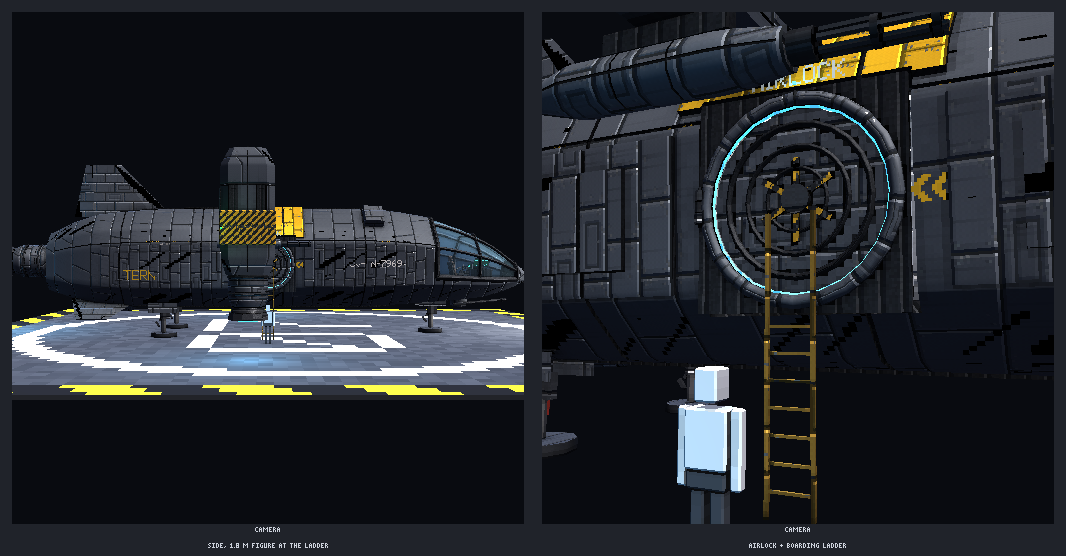
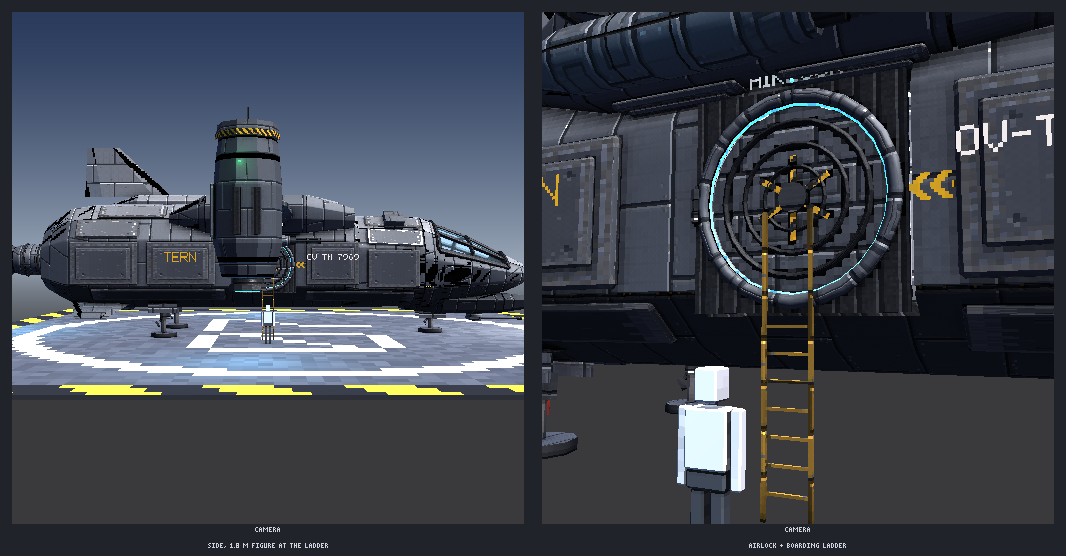
Hero exterior pass: faceted chined fuselage, spine/sponsons/chin masses, armour slabs, wing pylons, faceted nacelles, sky-lit previews
The gunship hull is now a linear loft of chined polygon sections (flat upper
deck stepping down to a wrap canopy and a blunt armoured nose) instead of a
rounded capsule. Big masses: dorsal spine, side sponsons carrying thick
armoured wing pylons over truss keels, a heavy chin block. Medium: faceted
VTOL nacelles with intake lip, hazard band and exhaust bell. Separate
bevelled armour slabs (new kit_slab texture: worn edges) with shadow gaps,
two-tone paint and a dark underbelly. Mood previews take sky (gradient
background); the hero exterior renders use a brighter key and fill.
walk_check still clean; before images kept as *_before.png.

diff --git a/src/gunship.js b/src/gunship.js
@@ -2,12 +2,14 @@
 // gunship at true scale (32 px = 1 m, 25 m long), exterior and walkable interior in ONE model.
 // Brand and names are original to this universe: maker "ORVANE", class "TERN", serial OV-TN-####.
 //
-// Exterior: tiered angular armour (stepped plates, recessed channels), two articulated nacelle
-// booms with hard pivots and VTOL thruster pods (blue glow rings, intake grilles, vent banks,
-// hazard-striped tips with nav lights), a big multi-pane glazed cockpit set into the armour, a
-// round side airlock with a boarding ladder, underslung guns, missile rails, a nose sensor cage,
-// chunky landing gear, livery decals (gunmetal + one yellow accent, stencils, serials, logotype,
-// chevrons).
+// Exterior, big masses first: a faceted chined fuselage wedge (linear loft of polygon sections:
+// flat upper deck stepping down to a wrap canopy and a blunt armoured nose), a raised dorsal spine,
+// side sponsons that carry thick armoured wing pylons (truss keels underneath), a heavy chin block;
+// then medium forms: faceted VTOL nacelles (intake lip, hazard band, exhaust bell, blue glow ring),
+// gun pods, missile rails, deep intakes, the round airlock + boarding ladder, chunky gear; then
+// separate bevelled armour slabs with shadow gaps (worn edges), vents and greebles only in the
+// recessed chine channel. Livery: two-tone (light deck, gunmetal sides, dark belly) + one yellow
+// accent block, stencils, serials, logotype, chevrons.
 // Interior (player metrics, walk_check clean): corridor with chamfered octagonal portal arches,
 // grating floor with blue edge strips, wall modules (weapon rack, personal storage, component bay),
 // terminals on arms, the airlock vestibule with a door panel, a cargo hold, and the cockpit with a
@@ -34,74 +36,120 @@ export function gunshipTemplate(o = {}) {
   const accent = o.accent ?? '#d0a020', hullC = o.color ?? '#454b54', glowC = o.glow ?? '#4cc8ff';
   const hx = (c) => c.slice(1).toLowerCase();
   const HULL = `kit_armor_${hx(hullC)}`, HULL2 = 'kit_hull_dark', ACC = `kit_accent_${hx(accent)}`, DARK = 'kit_metal_dark', MET = 'kit_metal';
+  // two-tone livery: light upper deck / spine / sponson tops, gunmetal sides, dark underbelly
+  const topC = o.color2 ?? '#6a7078', TOP = `kit_armor_${hx(topC)}`, BELLY = 'kit_armor_2c3036';
+  const SLAB_TOP = `kit_slab_${hx(topC)}`, SLAB_SIDE = `kit_slab_${hx(hullC)}`, SLAB_DARK = 'kit_slab_30343a', SLAB_ACC = `kit_slab_${hx(accent)}`;
   const L = 800, clear = 48, Y = (yl) => clear + yl; // local hull height -> world
   const floorL = 30, FY = Y(floorL), CH = 88; // corridor floor (world) and clear height (2.75 m)
   const zt = (t) => r2((t - 0.5) * L);
   const P = rig ? { parent: 'hull' } : {};
   const named = (n) => (rig ? { name: n } : {});
-  // ---------- primary form: the armoured body ----------
+  // ---------- primary mass: a faceted, chined fuselage wedge (linear loft of polygon sections) ----------
+  // Main section: flat upper deck, shoulder bevel, tumblehome upper side, hard chine, vertical side,
+  // lower bevel, flat belly. Nose section: narrower deck, deeper shoulder, keel-ish chin.
+  const mir = (h) => [...h, ...h.slice(1).reverse().map(([x, y]) => [-x, y])];
+  const MAIN = { points: mir([[0, 1], [0.6, 1], [0.84, 0.72], [1, 0.3], [1, -0.6], [0.78, -0.86], [0.55, -1]]), chamfer: 0.02 };
+  const NOSE = { points: mir([[0, 1], [0.42, 1], [0.8, 0.52], [1, 0.05], [0.9, -0.45], [0.55, -1]]), chamfer: 0.02 };
+  // facet u ranges of MAIN on the +x side (polygon corners): deck | shoulder | upper side | side | lower side | belly
+  const FU = { deck: [0, 0.0863], shoulder: [0.0863, 0.1393], upper: [0.1393, 0.2039], side: [0.2039, 0.3333], lower: [0.3333, 0.3822] };
   const body = {
-    type: 'hull', id: 'body', ...named('hull'), length: L, width: 224, height: 160, at: [0, clear, 0],
-    plan: [[0, 70], [0.1, 96], [0.3, 112], [0.64, 112], [0.78, 100], [0.9, 72], [1, 18]],
-    profile: [[0, 120, 26], [0.1, 150, 6], [0.3, 160, 0], [0.64, 160, 0], [0.78, 146, 6], [0.9, 112, 14], [0.97, 74, 30], [1, 56, 40]],
-    sections: [[0, { points: [[0, 1], [0.6, 1], [0.92, 0.62], [1, 0.25], [1, -0.62], [0.75, -1], [-0.75, -1], [-1, -0.62], [-1, 0.25], [-0.92, 0.62], [-0.6, 1]], chamfer: 0.03 }], [0.94, { points: [[0, 1], [0.5, 1], [1, 0.3], [0.9, -0.6], [0.5, -1], [-0.5, -1], [-0.9, -0.6], [-1, 0.3], [-0.5, 1]], chamfer: 0.04 }]],
-    rings: 20, segments: 18, crease: 28, shell: 6, inner: 'kit_metal_dark', rim: DARK,
-    panel_lines: { every: 128, seams: [0.06, 0.2], width: 2.2, depth: 1.8 },
+    type: 'hull', id: 'body', ...named('hull'), length: L, width: 224, height: 164, at: [0, clear, 0], interp: 'linear',
+    plan: [[0, 92], [0.06, 108], [0.12, 112], [0.6, 112], [0.7, 108], [0.8, 96], [0.9, 72], [0.97, 44], [1, 30]],
+    // flat upper deck, a hard step down at t 0.6, the second deck, then the canopy slope into a blunt armoured nose
+    profile: [[0, 132, 26], [0.05, 158, 6], [0.1, 164, 0], [0.6, 164, 0], [0.63, 146, 0], [0.76, 146, 0], [0.86, 118, 8], [0.95, 84, 24], [1, 66, 40]],
+    sections: [[0, MAIN], [0.7, MAIN], [0.88, NOSE]],
+    rings: 14, segments: 16, crease: 20, shell: 6, inner: 'kit_metal_dark', rim: DARK,
+    panel_lines: { rings: [0.1, 0.6, 0.76], seams: [FU.side[1]], width: 2.4, depth: 2 },
     plates: [
-      // tiered side armour: two stepped layers + a third small cap, recessed channels between
-      { t: [0.12, 0.38], u: [0.21, 0.33], lift: 2.5 }, { t: [0.15, 0.35], u: [0.23, 0.31], lift: 5 },
-      { t: [0.52, 0.76], u: [0.21, 0.33], lift: 2.5 }, { t: [0.55, 0.72], u: [0.23, 0.31], lift: 5 },
-      // dorsal spine plates
-      { t: [0.12, 0.7], u: [0.965, 0.035], lift: 2.5 }, { t: [0.16, 0.42], u: [0.975, 0.025], lift: 5 },
-      // the one accent colour: shoulder panels
-      { t: [0.38, 0.52], u: [0.08, 0.19], lift: 3, texture: ACC },
-      // belly armour
-      { t: [0.18, 0.7], u: [0.44, 0.56], lift: 2.5 },
+      // two-tone paint blocks: light upper deck + shoulders, gunmetal sides, dark underbelly
+      { t: [0.02, 0.99], u: [1 - FU.shoulder[1], FU.shoulder[1]], lift: 0.6, texture: TOP, mirror: false },
+      { t: [0.02, 0.99], u: [FU.side[1], 1 - FU.side[1]], lift: 0.6, texture: BELLY, mirror: false },
     ],
     texture: HULL, groove: DARK, plate_texture: HULL2, material: 'painted_metal',
     openings: [],
   };
   const S = hullSurface(body);
-  // openings: cockpit glazing (top + upper sides of the nose) and the round airlock on the -x side
-  const glz = { t: [0.785, 0.972], u: [0.69, 0.31] };
+  // armour slabs: separate bevelled boxes with real thickness on the flat facets, shadow gaps between
+  // them, an optional smaller second layer; fitted kit_slab texture = worn bare-metal edges
+  const slab = (hid, Sh, t0, t1, ua, ub, { h = 4, m = 3, tex = SLAB_SIDE, stack = 0, mirror = true, parent = P } = {}) => {
+    const tc = (t0 + t1) / 2, uc = (ua + ub) / 2, pa = Sh.point(tc, ua), pb = Sh.point(tc, ub);
+    const w = r2(Math.hypot(pa[0] - pb[0], pa[1] - pb[1], pa[2] - pb[2]) - 2 * m), d = r2(Math.abs(Sh.z(t1) - Sh.z(t0)) - 2 * m);
+    if (w < 6 || d < 6) return;
+    const q = { type: 'box', w, h, d, bevel: r2(Math.min(1.8, h * 0.42)), tile: false, texture: tex, material: 'painted_metal', ...parent };
+    parts.push({ ...q, on_hull: { hull: hid, t: tc, u: uc, lift: -0.6, mirror } });
+    if (stack) parts.push({ ...q, w: r2(w * 0.72), d: r2(d * 0.8), h: stack, bevel: r2(Math.min(1.4, stack * 0.42)), on_hull: { hull: hid, t: tc, u: uc, lift: h - 0.8, mirror } });
+  };
+  // openings: cockpit wrap canopy (deck + shoulders + upper sides of the nose) and the round airlock on -x
+  const glz = { t: [0.79, 0.945], u: [0.8, 0.2] };
   const zDoor = -40, tDoor = 0.5 + zDoor / L, R = 36, doorC = floorL + R + 2; // door centre (local y)
   const tD = [0.5 + (zDoor - R - 8) / L, 0.5 + (zDoor + R + 8) / L];
   const uD = [uAtY(S, tDoor, doorC + R + 8), uAtY(S, tDoor, doorC - R - 8)].sort((a, b) => a - b);
   body.openings = [{ ...glz, id: 'glazing' }, { t: tD, u: uD, id: 'airlock' }];
   const parts = [body];
   const Sx = (t, yl) => S.halfWidthAt(t, yl); // outer half width at local height
+  // body slabs (t ranges avoid the sponsons, the airlock band t 0.39..0.51 and the canopy)
+  for (const [a, b] of [[0.12, 0.24], [0.25, 0.37], [0.48, 0.6]]) slab('body', S, a, b, 0.052, FU.deck[1], { tex: SLAB_TOP, h: 3 });
+  for (const [a, b] of [[0.11, 0.25], [0.64, 0.76]]) slab('body', S, a, b, ...FU.shoulder, { tex: SLAB_TOP, h: 3.5 });
+  for (const [a, b] of [[0.07, 0.2], [0.64, 0.76]]) slab('body', S, a, b, ...FU.upper, { h: 4 });
+  for (const [a, b, st] of [[0.06, 0.2, 3], [0.21, 0.35, 3], [0.52, 0.63, 3], [0.64, 0.75, 0]]) slab('body', S, a, b, ...FU.side, { h: 5, stack: st });
+  slab('body', S, 0.38, 0.5, ...FU.side, { h: 5, stack: 3, tex: SLAB_ACC, mirror: false }); // the one accent block (+x side; the airlock is on -x)
+  for (const [a, b] of [[0.1, 0.37], [0.52, 0.74]]) slab('body', S, a, b, ...FU.lower, { h: 4, tex: SLAB_DARK });
+  // ---------- dorsal spine block (raised, faceted) ----------
+  const spine = { type: 'hull', id: 'spine', length: 384, width: 76, height: 24, at: [0, Y(162), zt(0.36)], interp: 'linear', plan: [[0, 20], [0.12, 38], [0.86, 38], [1, 22]], profile: [[0, 10, 0], [0.12, 24, 0], [0.86, 24, 0], [1, 12, 0]], section: { points: mir([[0, 1], [0.62, 1], [1, 0.1], [1, -1]]), chamfer: 0.04 }, rings: 6, segments: 8, crease: 20, texture: TOP, groove: DARK, material: 'painted_metal', ...P };
+  parts.push(spine);
+  const SP = hullSurface(spine);
+  for (const [a, b] of [[0.14, 0.4], [0.42, 0.62], [0.64, 0.84]]) slab('spine', SP, a, b, 0.92, 0.08, { tex: SLAB_TOP, h: 3, m: 4, mirror: false });
+  // ---------- side sponsons (the boom roots), heavy and wedge-ended ----------
+  const tB = 0.42, zB = zt(tB), yBl = 146, yB = Y(yBl), xS = Sx(tB, yBl);
+  const SPON = { points: mir([[0, 1], [0.55, 1], [1, 0.4], [1, -0.3], [0.6, -1]]), chamfer: 0.04 };
+  for (const s of [1, -1]) {
+    const sp = { type: 'hull', id: `spon_${s > 0 ? 'l' : 'r'}`, length: 288, width: 64, height: 58, at: [r2(s * (xS + 14)), Y(118), zB + 14], interp: 'linear', plan: [[0, 14], [0.2, 32], [0.74, 32], [1, 16]], profile: [[0, 30, 16], [0.2, 58, 0], [0.74, 58, 0], [1, 38, 8]], section: SPON, rings: 6, segments: 10, crease: 20, panel_lines: { rings: [0.2, 0.74], width: 2, depth: 1.6 }, texture: HULL, groove: DARK, material: 'painted_metal', ...P };
+    parts.push(sp);
+    const SS = hullSurface(sp);
+    for (const [a, b] of [[0.22, 0.46], [0.5, 0.72]]) slab(sp.id, SS, a, b, 0.92, 0.08, { tex: SLAB_TOP, h: 3.5, stack: 2.5, mirror: false });
+  }
+  // ---------- heavy chin block under the nose (chin turret housing, nose gear bay) ----------
+  const chin = { type: 'hull', id: 'chin', length: 230, width: 124, height: 36, at: [0, clear - 14, zt(0.88)], interp: 'linear', plan: [[0, 36], [0.25, 60], [0.7, 52], [1, 28]], profile: [[0, 20, 6], [0.25, 36, 0], [0.7, 34, 0], [1, 28, 10]], section: { points: mir([[0, 1], [0.7, 1], [1, 0.4], [0.85, -0.6], [0.5, -1]]), chamfer: 0.04 }, rings: 6, segments: 10, crease: 20, panel_lines: { rings: [0.25, 0.7], width: 2, depth: 1.6 }, texture: BELLY, groove: DARK, material: 'painted_metal', ...P };
+  parts.push(chin);
+  const CS = hullSurface(chin);
+  slab('chin', CS, 0.28, 0.68, 0.17, 0.27, { h: 3.5, tex: SLAB_DARK });
   // ---------- glazing + nose sensor cage ----------
-  parts.push({ type: 'glazing', hull: 'body', t: glz.t, u: glz.u, cols: 6, rows: 2, mullion: 5, frame: 9, inset: 3, opacity: 0.2, textures: { glass: '#8ec4dc', frame: DARK }, ...P });
+  parts.push({ type: 'glazing', hull: 'body', t: glz.t, u: glz.u, cols: 5, rows: 2, mullion: 7, frame: 12, inset: 4, opacity: 0.2, textures: { glass: '#8ec4dc', frame: DARK }, ...P });
   const nz = zt(1);
-  parts.push({ type: 'truss', from: [0, Y(48), nz - 6], to: [0, Y(48), nz + 54], w: 26, h: 22, bay: 18, style: 'x', chord: 1.6, brace: 0.9, texture: DARK, ...P });
-  parts.push({ type: 'sensor_dome', at: [0, Y(42), nz + 30], r: 7, ...P });
-  for (const s of [1, -1]) parts.push({ type: 'antenna', at: [s * 11, Y(59), nz + 40], h: 26, style: 'whip', texture: DARK, ...P });
-  parts.push({ type: 'light', at: [0, Y(36), nz + 56], color: '#fff2d8', kind: 'spot', dir: [0, -0.2, 1], intensity: 1.2, range: 420, bulb: 1.5, ...P });
+  parts.push({ type: 'truss', from: [0, Y(50), nz - 6], to: [0, Y(50), nz + 50], w: 26, h: 22, bay: 18, style: 'x', chord: 1.6, brace: 0.9, texture: DARK, ...P });
+  parts.push({ type: 'sensor_dome', at: [0, Y(44), nz + 28], r: 7, ...P });
+  for (const s of [1, -1]) parts.push({ type: 'antenna', at: [s * 11, Y(61), nz + 38], h: 26, style: 'whip', texture: DARK, ...P });
+  parts.push({ type: 'light', at: [0, Y(38), nz + 52], color: '#fff2d8', kind: 'spot', dir: [0, -0.2, 1], intensity: 1.2, range: 420, bulb: 1.5, ...P });
   // ---------- airlock (round door, outside) + boarding ladder ----------
   const xDoor = -Sx(tDoor, doorC);
   parts.push({ type: 'ring_door', ...(rig ? { name: 'airlock' } : { open: o.airlock === 'open' ? 1 : 0 }), r: R, at: [r2(xDoor - 1), Y(doorC), zDoor], rotate: [0, 0, 90], glow: glowC, ...P });
-  parts.push({ type: 'ladder', at: [r2(xDoor - 8), 0, zDoor], rotate: [0, 90, 0], h: FY, w: 18, ...P });
+  if (rig || o.gear !== 'up') parts.push({ type: 'ladder', at: [r2(xDoor - 8), 0, zDoor], rotate: [0, 90, 0], h: FY, w: 18, ...P });
   parts.push({ type: 'decal', text: 'AIRLOCK', font: '5x7', px: 1, color: '#e8e4d8', at: [r2(xDoor - 1.4), Y(doorC + R + 13), zDoor], rotate: [0, -90, 0], ...P });
   for (const s of [1, -1]) parts.push({ type: 'decal', kind: 'chevrons', count: 3, px: 1.2, color: accent, at: [r2(xDoor - 1.4), Y(doorC), zDoor + s * (R + 18)], rotate: [0, -90, s > 0 ? 0 : 180], ...P });
   parts.push({ type: 'marker', kind: 'spawn', at: [r2(xDoor - 60), 0, zDoor], dir: [1, 0, 0], data: { spawn: 'boarding' } });
-  // ---------- booms with VTOL thruster pods ----------
-  const tB = 0.42, zB = zt(tB), yB = Y(132), xS = Sx(tB, 132);
-  const boomLen = 230, podX = xS + boomLen + 18;
+  // ---------- armoured wing pylons from the sponsons, VTOL nacelles at the tips ----------
+  const boomLen = 200, root = xS + 40, podR = 41, podX = root + boomLen + 30;
+  const WING = { points: mir([[0, 1], [0.62, 1], [1, 0.25], [1, -0.25], [0.8, -1]]), chamfer: 0.03 };
   for (const s of [1, -1]) {
     const sfx = s > 0 ? 'l' : 'r', boomN = rig ? `boom_${sfx}` : undefined, podN = rig ? `pod_${sfx}` : undefined;
     const PB = rig ? { parent: boomN } : {}, PP = rig ? { parent: podN } : {};
-    // shoulder pivot: exposed knuckles + collar
-    parts.push({ type: 'cylinder', r: 20, h: 16, segments: 12, rotate: [0, 0, 90], at: [r2(s * (xS + (s > 0 ? 14 : -2))), yB, zB], texture: DARK, material: 'bare_metal', ...P });
-    parts.push({ type: 'hinge', len: 30, r: 9, count: 4, at: [r2(s * (xS + 8)), yB + 14, zB], ...P });
-    parts.push({ type: 'hull', ...(rig ? { name: boomN, parent: 'hull' } : {}), id: `boom_${sfx}`, length: boomLen, width: 40, height: 30, at: [r2(s * (xS + 12 + boomLen / 2)), yB - 15, zB], rotate: [0, s * 90, 0], plan: [[0, 20], [0.85, 16], [1, 12]], profile: [[0, 30, 0], [0.8, 26, 3], [1, 22, 6]], section: { points: [[0, 1], [0.6, 1], [1, 0.4], [1, -0.4], [0.6, -1], [-0.6, -1], [-1, -0.4], [-1, 0.4], [-0.6, 1]] }, rings: 8, segments: 12, panel_lines: { every: 48, seams: [0.25], width: 1.5, depth: 1.2 }, plates: [{ t: [0.15, 0.7], u: [0.92, 0.08], lift: 2 }], texture: HULL, groove: DARK, plate_texture: HULL2, material: 'painted_metal' });
-    // underslung gun pod near the root, missile rail outboard
-    parts.push({ type: 'gun_pod', at: [r2(s * (xS + 70)), yB - 16, zB + 6], len: 96, r: 9, barrels: 6, ...PB });
-    for (const k2 of [0, 1]) parts.push({ type: 'hardpoint', at: [r2(s * (xS + 140 + k2 * 40)), yB - 16, zB], len: 60, missile_r: 4, textures: { texture: MET, dark: DARK }, ...PB });
-    // the pod: housing, thruster with a blue glow ring, intake grille, vent banks, hazard tip + nav light
-    const pod = { type: 'hull', id: `pod_${sfx}`, ...(rig ? { name: podN, parent: boomN } : {}), length: 150, width: 64, height: 64, at: [r2(s * podX), yB - 32, zB], plan: [[0, 28], [0.15, 32], [0.85, 32], [1, 24]], profile: [[0, 58, 6], [0.15, 64, 0], [0.85, 64, 0], [1, 54, 10]], section: { points: [[0, 1], [0.7, 1], [1, 0.7], [1, -0.7], [0.7, -1], [-0.7, -1], [-1, -0.7], [-1, 0.7], [-0.7, 1]] }, rings: 8, segments: 12, panel_lines: { rings: [0.3, 0.7], seams: [0.25, 0.75], width: 1.5, depth: 1.2 }, plates: [{ t: [0.32, 0.68], u: [0.9, 0.1], lift: 2 }], texture: HULL, groove: DARK, plate_texture: HULL2, material: 'painted_metal', pivot: [0, 32, 0] };
+    // shoulder pivot: exposed knuckles + collar on the sponson flank
+    parts.push({ type: 'cylinder', r: 22, h: 14, segments: 10, rotate: [0, 0, 90], at: [r2(s * (root - (s > 0 ? 0 : 14))), yB, zB], texture: DARK, material: 'bare_metal', ...P });
+    parts.push({ type: 'hinge', len: 30, r: 9, count: 4, at: [r2(s * (root - 2)), yB + 18, zB - 24], ...P });
+    // the wing: thick tapered armoured pylon (faceted), top slabs, an exposed truss keel underneath
+    parts.push({ type: 'hull', ...(rig ? { name: boomN, parent: 'hull' } : {}), id: `boom_${sfx}`, length: boomLen + 16, width: 128, height: 30, at: [r2(s * (root - 8 + (boomLen + 16) / 2)), yB - 15, zB], rotate: [0, s * 90, 0], interp: 'linear', plan: [[0, 64], [0.85, 48], [1, 42]], profile: [[0, 30, 0], [0.85, 26, 2], [1, 24, 3]], section: WING, rings: 6, segments: 10, crease: 20, panel_lines: { rings: [0.5], width: 2, depth: 1.5 }, texture: HULL, groove: DARK, material: 'painted_metal' });
+    for (const [a, b] of [[0.06, 0.48], [0.52, 0.92]]) {
+      const x0 = root + a * boomLen, x1 = root + b * boomLen, f = Math.min(1, ((x0 + x1) / 2 - root + 8) / (boomLen + 16) / 0.85);
+      const hw = 64 - 16 * f, top = 30 - 4 * f;
+      parts.push({ type: 'box', w: r2(x1 - x0), h: 3.5, d: r2(2 * 0.62 * hw - 8), at: [r2((s * (x0 + x1)) / 2), r2(yB - 15 + top - 0.8), zB], bevel: 1.4, tile: false, texture: SLAB_TOP, material: 'painted_metal', ...PB });
+    }
+    parts.push({ type: 'truss', from: [r2(s * (root + 8)), yB - 26, zB - 6], to: [r2(s * (podX - podR - 4)), yB - 23, zB - 6], w: 30, h: 14, bay: 26, style: 'warren', chord: 1.8, brace: 1.1, texture: DARK, ...PB });
+    // underslung gun pod near the root, missile rails outboard
+    parts.push({ type: 'gun_pod', at: [r2(s * (root + 46)), yB - 24, zB + 16], len: 100, r: 10, barrels: 6, ...PB });
+    for (const k2 of [0, 1]) parts.push({ type: 'hardpoint', at: [r2(s * (root + 110 + k2 * 40)), yB - 15, zB + 10], len: 64, missile_r: 4, textures: { texture: MET, dark: DARK }, ...PB });
+    // the nacelle: a faceted revolve (intake lip at the front, swelling body, exhaust bell at the back)
     const vt = o.vtol === 'flight' ? 0 : -90;
-    if (!rig && vt) pod.rotate = [vt, 0, 0];
-    parts.push(pod);
+    if (rig) parts.push({ type: 'box', name: podN, parent: boomN, w: 20, h: 30, d: 40, at: [r2(s * podX), yB - 15, zB], pivot: [0, 15, 0], texture: DARK });
     const inPod = (q, local) => {
       // a part in the pod's frame (offset from the pod centre); static VTOL turns origin + part about x with the pod
       const c = [s * podX, yB, zB], a = (vt * Math.PI) / 180, ca = Math.cos(a), sa = Math.sin(a);
@@ -110,42 +158,47 @@ export function gunshipTemplate(o = {}) {
       if (rig || !vt) return { ...q, at, ...PP };
       return { ...q, at, rotate: [vt + (q.rotate?.[0] ?? 0), q.rotate?.[1] ?? 0, q.rotate?.[2] ?? 0] };
     };
-    parts.push(inPod({ type: 'engine', id: `vtol_${sfx}`, r: 24, len: 50, nozzle_len: 16, petals: 12, glow: glowC, textures: { housing: HULL2, nozzle: MET, dark: DARK } }, [0, 0, -88]));
-    parts.push(inPod({ type: 'intake', w: 40, h: 28, d: 30, depth: 24, textures: { texture: HULL2, side: DARK } }, [0, -14, 62]));
-    for (const yy of [16, -16]) parts.push(inPod({ type: 'box', w: 2, h: 10, d: 60, rotate: [0, 0, 0], texture: DARK, insets: [{ face: s > 0 ? 'right' : 'left', rect: [4, 2, 52, 6], depth: 0.6 }] }, [s * 33, yy - 5, 0]));
-    parts.push(inPod({ type: 'box', w: 6, h: 66, d: 40, texture: 'kit_hazard', bevel: 1 }, [s * 34, -33, -20]));
-    parts.push(inPod({ type: 'light', color: s > 0 ? '#ff3030' : '#30ff60', intensity: 0.7, range: 80, bulb: 2.2 }, [s * 38, 30, -20]));
-    parts.push(inPod({ type: 'decal', text: 'NO STEP', px: 0.8, color: '#e8e4d8', rotate: [-90, 0, 0] }, [0, 32.4, 30]));
-    // logotype on the boom side (original maker mark)
-    parts.push({ type: 'decal', kind: 'logo', text: 'ORVANE', px: 1.1, color: '#e8e4d8', at: [r2(s * (xS + 110)), yB - 4, r2(zB + 20.6)], ...PB });
-    parts.push({ type: 'decal', kind: 'stripes', len: 40, px: 1, color: accent, at: [r2(s * (xS + 110)), yB - 13, r2(zB + 20.6)], ...PB });
+    parts.push(inPod({ type: 'revolve', id: `pod_${sfx}`, profile: [[20, -80], [27, -92], [31, -91], [35, -74], [podR, -52], [podR, 14], [38, 50], [35, 70], [37.5, 78], [36, 88], [29, 89], [26, 80], [22, 62]], segments: 10, smooth: false, rotate: [90, 0, 0], texture: HULL, material: 'painted_metal' }, [0, 0, 0]));
+    parts.push(inPod({ type: 'engine', id: `vtol_${sfx}`, r: 22, len: 30, nozzle_len: 14, petals: 12, glow: glowC, textures: { housing: HULL2, nozzle: MET, dark: DARK } }, [0, 0, -78]));
+    // intake: dark fan face + cross grille + hazard-striped lip band
+    parts.push(inPod({ type: 'cylinder', r: 23, h: 3, segments: 10, rotate: [90, 0, 0], texture: 'kit_grate', material: 'bare_metal' }, [0, 0, 64]));
+    for (const rz of [0, 90]) parts.push(inPod({ type: 'box', w: 50, h: 2.4, d: 2.4, rotate: [0, 0, rz], texture: DARK }, [0, -1.2, 84]));
+    parts.push(inPod({ type: 'revolve', profile: [[38.4, -3.5], [38.4, 3.5]], segments: 10, smooth: false, rotate: [90, 0, 0], texture: 'kit_hazard' }, [0, 0, 74]));
+    // top armour slab band, vent banks on the flanks, nav light
+    parts.push(inPod({ type: 'box', w: 30, h: 3.5, d: 64, bevel: 1.4, tile: false, texture: SLAB_TOP, material: 'painted_metal' }, [0, podR - 1.2, -14]));
+    for (const yy of [12, -12]) parts.push(inPod({ type: 'box', w: 2, h: 9, d: 52, texture: DARK, insets: [{ face: s > 0 ? 'right' : 'left', rect: [4, 2, 44, 5], depth: 0.6 }] }, [s * (podR - 0.6), yy - 4.5, -16]));
+    parts.push(inPod({ type: 'light', color: s > 0 ? '#ff3030' : '#30ff60', intensity: 0.7, range: 80, bulb: 2.2 }, [s * (podR + 1), 8, 40]));
+    parts.push(inPod({ type: 'decal', text: 'NO STEP', px: 0.8, color: '#e8e4d8', rotate: [-90, 0, 0] }, [0, podR + 2.6, -14]));
+    // logotype + stripes on the wing's leading face
+    parts.push({ type: 'decal', kind: 'logo', text: 'ORVANE', px: 1.1, color: '#e8e4d8', at: [r2(s * (root + 100)), yB - 2, r2(zB + 64.6)], ...PB });
+    parts.push({ type: 'decal', kind: 'stripes', len: 40, px: 1, color: accent, at: [r2(s * (root + 100)), yB - 10, r2(zB + 64.6)], ...PB });
   }
-  // ---------- tail: main engines, fin, strakes, vents ----------
+  // ---------- tail: main engines, fin on the spine, strakes, vents ----------
   for (const s of [1, -1]) {
-    parts.push({ type: 'engine', id: `main_${s > 0 ? 'l' : 'r'}`, at: [s * 42, Y(74), zt(0) - 26], r: 26, len: 60, nozzle_len: 20, petals: 12, glow: glowC, textures: { housing: HULL2, nozzle: MET, dark: DARK }, ...P });
-    parts.push({ type: 'decal', kind: 'chevrons', count: 4, px: 1.2, color: accent, at: [s * 42, Y(108), zt(0) - 0.6], rotate: [0, 180, 0], ...P });
-    parts.push({ type: 'wing_panel', span: 60, root: 120, tip: 50, sweep: 50, thick: 5, dihedral: s > 0 ? -35 : 215, at: [s * 50, Y(16), zt(0.12)], texture: HULL2, ...P });
+    parts.push({ type: 'engine', id: `main_${s > 0 ? 'l' : 'r'}`, at: [s * 42, Y(76), zt(0) - 26], r: 26, len: 60, nozzle_len: 20, petals: 12, glow: glowC, textures: { housing: HULL2, nozzle: MET, dark: DARK }, ...P });
+    parts.push({ type: 'decal', kind: 'chevrons', count: 4, px: 1.2, color: accent, at: [s * 42, Y(110), zt(0) - 0.6], rotate: [0, 180, 0], ...P });
+    parts.push({ type: 'wing_panel', span: 60, root: 120, tip: 50, sweep: 50, thick: 6, dihedral: s > 0 ? -35 : 215, at: [s * 54, Y(18), zt(0.12)], texture: HULL2, ...P });
   }
-  parts.push({ type: 'wing_panel', span: 90, root: 170, tip: 60, sweep: 90, thick: 6, dihedral: 90, at: [0, Y(150), zt(0.14)], texture: HULL2, ...P });
-  parts.push({ type: 'decal', text: 'CAUTION JET BLAST', px: 0.7, color: '#1c1d20', bg: accent, at: [0, Y(100), zt(0) - 0.6], rotate: [0, 180, 0], ...P });
-  // vent banks on the spine (in the recessed channel) + intake grilles behind the canopy
-  for (const s of [1, -1]) for (let i = 0; i < 4; i++) parts.push({ type: 'vent', on_hull: { hull: 'body', t: 0.16 + i * 0.045, u: s > 0 ? 0.06 : 0.94, lift: 0.2 }, w: 18, d: 26, slats: 5, texture: DARK, ...P });
-  for (const s of [1, -1]) parts.push({ type: 'intake', on_hull: { hull: 'body', t: 0.66, u: s > 0 ? 0.12 : 0.88, lift: -0.5 }, w: 36, h: 14, d: 30, depth: 20, textures: { texture: HULL2, side: DARK }, ...P });
-  // fine greebles only inside the recessed seams
-  for (const u of [0.2, 0.8]) parts.push({ type: 'greeble', on_hull: { hull: 'body', t: 0.47, u, lift: -1.5 }, w: 3, d: 420, seed: 5, density: 0.5, size: [2, 6], height: [0.4, 1.2], kinds: ['bolts', 'conduit', 'panel'], texture: DARK, dark: '#18191c', accent: ACC, ...P });
+  parts.push({ type: 'wing_panel', span: 84, root: 150, tip: 56, sweep: 90, thick: 7, dihedral: 90, at: [0, Y(184), zt(0.15)], texture: TOP, ...P });
+  parts.push({ type: 'decal', text: 'CAUTION JET BLAST', px: 0.7, color: '#1c1d20', bg: accent, at: [0, Y(102), zt(0) - 0.6], rotate: [0, 180, 0], ...P });
+  // vent banks on the upper deck beside the spine + deep intakes on the second deck shoulders
+  for (const s of [1, -1]) for (let i = 0; i < 3; i++) parts.push({ type: 'vent', on_hull: { hull: 'body', t: 0.395 + i * 0.04, u: s > 0 ? 0.068 : 0.932, lift: 0.2 }, w: 18, d: 24, slats: 5, texture: DARK, ...P });
+  for (const s of [1, -1]) parts.push({ type: 'intake', on_hull: { hull: 'body', t: 0.7, u: s > 0 ? 0.115 : 0.885, lift: -0.5 }, w: 30, h: 14, d: 30, depth: 20, textures: { texture: HULL2, side: DARK }, ...P });
+  // fine greebles only inside the recessed chine channel
+  for (const u of [FU.side[1], 1 - FU.side[1]]) parts.push({ type: 'greeble', on_hull: { hull: 'body', t: 0.45, u, lift: -1.8 }, w: 3, d: 520, seed: 5, density: 0.5, size: [2, 6], height: [0.4, 1.2], kinds: ['bolts', 'conduit', 'panel'], texture: DARK, dark: '#18191c', accent: ACC, ...P });
   // ---------- underslung chin guns ----------
-  parts.push({ type: 'turret', ...(rig ? { name: 'chin_turret' } : {}), on_hull: { hull: 'body', t: 0.86, u: 0.5 }, r: 14, h: 6, barrels: 2, barrel_len: 70, textures: { texture: HULL2, dark: DARK, barrel: MET }, ...P });
-  // ---------- livery decals: serial, stencils, logotype ----------
+  parts.push({ type: 'turret', ...(rig ? { name: 'chin_turret' } : {}), on_hull: { hull: 'chin', t: 0.55, u: 0.5 }, r: 14, h: 6, barrels: 2, barrel_len: 70, textures: { texture: HULL2, dark: DARK, barrel: MET }, ...P });
+  // ---------- livery decals: serial, stencils, logotype (on the side slabs) ----------
   for (const s of [1, -1]) {
-    const tS = 0.66, xs = Sx(tS, 70) + 5.6;
-    parts.push({ type: 'decal', text: serial, font: '5x7', px: 1.4, color: '#e8e4d8', at: [r2(s * xs), Y(70), zt(tS)], rotate: [0, s * 90, 0], ...P });
-    parts.push({ type: 'decal', text: 'TERN', font: '7x9', px: 1.6, color: accent, at: [r2(s * xs), Y(52), zt(0.2)], rotate: [0, s * 90, 0], ...P });
-    parts.push({ type: 'decal', text: 'O2 SVC', px: 0.7, color: '#e8e4d8', at: [r2(s * (Sx(0.25, 100) + 0.3)), Y(100), zt(0.25)], rotate: [0, s * 90, 0], ...P });
+    const tS = 0.575, xs = Sx(tS, 80) + 5.6;
+    parts.push({ type: 'decal', text: serial, font: '5x7', px: 1.4, color: '#e8e4d8', at: [r2(s * (xs + 3)), Y(80), zt(tS)], rotate: [0, s * 90, 0], ...P });
+    parts.push({ type: 'decal', text: 'TERN', font: '7x9', px: 1.6, color: accent, at: [r2(s * (Sx(0.28, 80) + 8.6)), Y(80), zt(0.28)], rotate: [0, s * 90, 0], ...P });
+    parts.push({ type: 'decal', text: 'O2 SVC', px: 0.7, color: '#e8e4d8', at: [r2(s * (Sx(0.135, 70) + 5.6)), Y(70), zt(0.135)], rotate: [0, s * 90, 0], ...P });
   }
   // ---------- landing gear (chunky feet, visible pistons) ----------
-  const legs = [[0.8, 0, 'gear_n'], [0.24, 74, 'gear_l'], [0.24, -74, 'gear_r']];
-  for (const [t, x, nm] of legs) {
-    const yb = clear + S.extentAt(t).bottom + 6;
+  const legs = [[0.8, 0, 'gear_n', clear - 14 + CS.extentAt(CS.tOf(zt(0.8) - zt(0.88))).bottom], [0.24, 74, 'gear_l', clear + S.extentAt(0.24).bottom], [0.24, -74, 'gear_r', clear + S.extentAt(0.24).bottom]];
+  for (const [t, x, nm, bot] of legs) {
+    const yb = bot + 6;
     parts.push({ type: 'landing_gear', at: [x, r2(yb), zt(t)], h: r2(yb - 6 * 1.1), r: 6, foot: 'pad', door_w: 30, door_d: 46, textures: { texture: MET, piston: '#c8ccd0', door: HULL2, dark: DARK }, ...(rig ? { name: nm, parent: 'hull' } : { deployed: o.gear !== 'up' }) });
   }
   // ---------- interior (one model with the exterior; parts tagged inside:"body") ----------

diff --git a/src/docs.js b/src/docs.js
@@ -250,8 +250,8 @@ ${Object.entries(ASSEMBLY_DOCS).map(([k, v]) => `  ${k} {${v}}`).join('\n')}
 - hull shell:<px> = inner skin (wall thickness) + openings:[{t:[a,b], u:[a,b] (u0 > u1 wraps the top), id}] cut through both skins with rims that show the thickness; tag interior parts inside:"<hull id>" so walk_check tests the fit. glazing {hull, t, u, cols, rows, inset:3, mullion:5, frame:8} fills an opening with glass set into the armour + heavy mullions. ring_door {r:38, name?} = round airlock (concentric rings, lit ring, hub, exposed hinge; local +x = up, rotate:[0,0,90] mounts it on a -x wall). Interior kit: portal_arch (chamfered octagonal bulkhead portal), locker_wall {kind:weapon_rack|storage|component} (lit header, labels), screen_arm, pilot_seat (armrest pods, joysticks, screen arms, perforated kit_leather), terminal, stair_run {h} (risers <= 0.2 m), crate, barrel, stool, chair; gun_pod (rotary barrel cluster), fairing, hinge (exposed knuckles); figure (1.8 m scale silhouette for renders). Walk data rides on markers: walk {w, d, room, kind, headroom} areas (rooms, corridors, catwalks, ramps, stairs add theirs), ladder, lift, door, collider, trigger, seat, spawn.
 - art_model walk_check {name} -> ok, problems, blocked_doors, headroom (and seat head clearance), unreachable areas (from spawn markers / the ground, through doors, ladders, lifts and open edges), floor_gaps, hull_pokes (interior parts outside the inner skin), metrics (door / corridor sizes, slopes, stair rise, hull thickness); positions in metres. Doors, ramps, canopies and airlocks are opened for the test. export {walk:true} adds <name>_walk (navmesh, extras.navmesh, proxy), collider_<n> (box colliders per room), trigger_<n> (door / ladder / lift volumes), seat_<n> and spawn_<n> nodes; without walk those markers stay out.
 - template:"gunship" = the hero: an ORIGINAL 25 m VTOL gunship (maker ORVANE, class TERN) with a walkable interior (corridor with portal arches, grating, blue edge strips, weapon rack / storage / component bay, airlock vestibule, hold, cockpit with pilot seat behind the mullioned glazing); rigged nodes hull > boom_l/r > pod_l/r, airlock, chin_turret, gear_*; clips vtol, airlock_open, gear_retract/deploy; pose landed; static: rigged:false + vtol:"flight", gear:"up", airlock:"open". generate {kind:"interior", merge:true (default)} also writes the deck plan into the ship (inside:<hull>).
-- Kit textures without canvases: any texture "kit_<name>" or "kit_<name>_<rrggbb>" (tinted) resolves to the built-in painted pixel texture (height -> normal map, metal / rough) when no canvas has that name: hull, armor, hull_dark, accent, metal, metal_dark, deck (tread plate), grate (see-through), wall, panel_light, ceiling, hazard, rust, concrete, rock, pipe, fabric, crate, barrel, container, container_end, rubber, leather (perforated), glow, glass, screen, scratches + grime (overlays). Kit pieces and templates use them by default (textures:"flat" on templates = flat colours). decal {kind:text|logo|arrow|chevrons|stripes, text, px:0.5, color, bg, glow} = stencils, serials, labels, arrows, warning chevrons (alpha-cut quad facing +z; never occludes AO).
-- Previews: mood:true lights every surface per pixel (normal maps, specular highlights of the point lights, baked AO with ao:true, key + fill + rim light); mood {rim:false|{color, strength}, fill, key, max_lights:12, gain, ambient}. Preview only: exports are unchanged.
+- Kit textures without canvases: any texture "kit_<name>" or "kit_<name>_<rrggbb>" (tinted) resolves to the built-in painted pixel texture (height -> normal map, metal / rough) when no canvas has that name: hull, armor, hull_dark, accent, metal, metal_dark, deck (tread plate), grate (see-through), wall, panel_light, ceiling, slab (one bevelled armour slab per face, tile:false: worn edges), hazard, rust, concrete, rock, pipe, fabric, crate, barrel, container, container_end, rubber, leather (perforated), glow, glass, screen, scratches + grime (overlays). Kit pieces and templates use them by default (textures:"flat" on templates = flat colours). decal {kind:text|logo|arrow|chevrons|stripes, text, px:0.5, color, bg, glow} = stencils, serials, labels, arrows, warning chevrons (alpha-cut quad facing +z; never occludes AO).
+- Previews: mood:true lights every surface per pixel (normal maps, specular highlights of the point lights, baked AO with ao:true, key + fill + rim light); mood {rim:false|{color, strength}, fill, key, max_lights:12, gain, ambient, sky:true|{top, horizon, ground, horizon_y} (vertical sky / ground gradient behind the model)}. Preview only: exports are unchanged.
 - Budgets: art_model budget {name, class?} -> class (snub 6k, fighter 14k, dropship 45k, freighter 80k, corvette 120k, capital 200k (exterior + walkable interior), prop 1.5k, kit_piece 3k, room 8k, building 25k, district 150k), triangles, LOD estimate, draw calls, costliest parts, advice. export {budget:"fighter"} fails over budget; split:true (or a count) splits meshes over 20000 triangles (Roblox MeshPart limit) into <mesh>_part<k> child nodes; static:true|"<pose>" bakes a rigged ship's pose so lods / impostor / cull apply (sockets -> marker nodes).
 - Previews: preview {mood:true | {ambient, ambient_color, key:{dir, color, strength}, gain, bg}} = dark scene lit by the model's own light markers (engines, neon, lamps) as coloured point lights; additive cards add light.
 RIGS & CLIPS (rigid parts, PSX / Half-Life 1 style, no skinning; also maps to Roblox: one MeshPart per node + Motor6D):

diff --git a/src/modelkit.js b/src/modelkit.js
@@ -255,8 +255,15 @@ const hexRGB = (c) => { const m = /^#?([0-9a-f]{6})/i.exec(String(c)); if (!m) r
  * lamps) as coloured point lights. Every opaque surface is lit per pixel (normal maps, specular
  * highlights of the point lights, baked AO). mood: true | {ambient, ambient_color, key:{dir, color,
  * strength}, fill:false|{dir, color, strength}, rim:false|{dir?, color, strength}, lights:true|false, max_lights?:12 (per material
- * group, strongest first), gain, bg}.
+ * group, strongest first), gain, bg, sky:true|{top, horizon, ground, horizon_y?:0.5} (gradient
+ * background instead of the flat bg)}.
  */
+/** mood.sky: true (default dusk) | {top, horizon, ground, horizon_y?} hex colours -> RGB 0..255. */
+function skyOpts(sk) {
+  const d = { top: '#2a3b5c', horizon: '#9aa8b8', ground: '#3a3a3c', horizon_y: 0.5 }, o = sk === true ? d : { ...d, ...sk };
+  const rgb = (h) => hexRGB(h).map((v) => Math.round(v * 255));
+  return { top: rgb(o.top), horizon: rgb(o.horizon), ground: rgb(o.ground), horizon_y: Number(o.horizon_y) };
+}
 export function moodOpts(markers = [], mood = true) {
   const o = mood === true ? {} : mood;
   const amb = Number(o.ambient ?? 0.3);
@@ -268,5 +275,5 @@ export function moodOpts(markers = [], mood = true) {
   const bg = o.bg ? hexRGB(o.bg).map((v) => Math.round(v * 255)) : [9, 11, 16];
   const r = o.rim === false ? null : { ...(o.rim?.dir ? { dir: o.rim.dir.map(Number) } : {}), color: hexRGB(o.rim?.color ?? '#a8c4ff'), strength: Number(o.rim?.strength ?? 1.1) };
   const f = o.fill === false ? null : { dir: (o.fill?.dir ?? [-kd[0], 0.15, -kd[2]]).map(Number), color: hexRGB(o.fill?.color ?? '#5a78b0'), strength: Number(o.fill?.strength ?? 0.4) };
-  return { mood: true, bg, light: kd, ambient: amb, ambient_color: ac.map((v) => v * amb), color: key.color ? hexRGB(key.color) : [1, 0.94, 0.86], light_strength: Number(key.strength ?? 1.35), lights, ...(r ? { rim: r } : {}), ...(f ? { fill: f } : {}), max_lights: Number(o.max_lights ?? 12) };
+  return { mood: true, bg, light: kd, ambient: amb, ambient_color: ac.map((v) => v * amb), color: key.color ? hexRGB(key.color) : [1, 0.94, 0.86], light_strength: Number(key.strength ?? 1.35), lights, ...(r ? { rim: r } : {}), ...(f ? { fill: f } : {}), max_lights: Number(o.max_lights ?? 12), ...(o.sky ? { sky: skyOpts(o.sky) } : {}) };
 }

diff --git a/src/kittex.js b/src/kittex.js
@@ -52,6 +52,22 @@ const panel = (base, seed, { pw = 32, ph = 16, chips = 0.5, dirt = 0.5, hatch = 
 const PAINTERS = {
   hull: { w: 64, h: 64, base: 'hull', fn: (b, s) => panel(b, s, { pw: 32, ph: 16 }) },
   armor: { w: 64, h: 64, base: 'hull', fn: (b, s) => panel(b, s + 3, { pw: 64, ph: 32, chips: 0.25, dirt: 0.35, hatch: 0.12 }) },
+  // one armour slab fitted per face (tile:false): worn bare-metal edges along the border (chamfers
+  // read as edge wear), a lit inner lip, a calm painted field with faint scuffs, corner bolts
+  slab: {
+    w: 32, h: 32, base: 'hull',
+    fn: (b, s) => (x, y) => {
+      const N = (a, c, k) => hash3(a, c, s * 97 + k);
+      const e = Math.min(x, y, 31 - x, 31 - y);
+      const tone = 0.95 + N(x >> 3, y >> 3, 1) * 0.07 + dith(x, y) - (y / 31) * 0.06;
+      if (e === 0) return { c: shade(hex('#a2a6aa'), 0.85 + N(x, y, 2) * 0.25), h: 0.5, metal: 0.9, rough: 0.35 };
+      if (e === 1) return N(x, y, 3) < 0.45 ? { c: shade(hex('#8e9296'), 0.9 + N(x, y, 4) * 0.2), h: 0.6, metal: 0.85, rough: 0.4 } : { c: shade(hex(b), 1.16), h: 0.7 };
+      if (e === 2 && N(x >> 1, y >> 1, 5) < 0.18) return { c: shade(hex('#7c8084'), 1), h: 0.6, metal: 0.8, rough: 0.45 };
+      if ((x === 4 || x === 27) && (y === 4 || y === 27)) return { c: shade(hex(b), 0.55), h: 0.3 };
+      const scuff = N(x, y, 6) < 0.012 ? 1.25 : 1;
+      return { c: shade(hex(b), tone * scuff), h: 0.62, metal: 0.25, rough: 0.5 };
+    },
+  },
   hull_dark: { w: 64, h: 64, base: 'hull_dark', fn: (b, s) => panel(b, s + 1, { pw: 32, ph: 16, chips: 0.7, dirt: 0.7 }) },
   accent: { w: 32, h: 32, base: 'accent', fn: (b, s) => panel(b, s + 2, { pw: 32, ph: 16, hatch: 0, chips: 0.8 }) },
   metal: {

diff --git a/src/raster3d.js b/src/raster3d.js
@@ -67,6 +67,16 @@ export function rasterCore(groups, screen, IW, IH, opts = {}) {
   const L = opts.light || LIGHT, amb = opts.ambient ?? 0.45, lc = opts.color || null;
   const img = new Uint8ClampedArray(IW * IH * 4);
   if (bg) for (let i = 0; i < IW * IH; i++) img.set(bg, i * 4), (img[i * 4 + 3] = 255);
+  // mood sky: vertical gradient top -> horizon (at horizon_y of the height) -> ground (preview only)
+  const sky = bg && opts.sky;
+  if (sky) {
+    const hy = Math.max(0.05, Math.min(0.95, Number(sky.horizon_y ?? 0.55))) * IH;
+    for (let y = 0; y < IH; y++) {
+      const [a, b, f] = y < hy ? [sky.top, sky.horizon, (y / hy) ** 1.4] : [sky.horizon, sky.ground, Math.min(1, ((y - hy) / (IH - hy)) * 3) ** 0.7];
+      const c = [0, 1, 2].map((k) => Math.round(a[k] + (b[k] - a[k]) * f));
+      for (let x = 0; x < IW; x++) img.set(c, (y * IW + x) * 4);
+    }
+  }
   const zbuf = new Float32Array(IW * IH).fill(-Infinity);
   let drawn = 0;
   // coloured point lights (mood previews): per-vertex RGB light, replaces the scalar Lambert term

diff --git a/README.md b/README.md
@@ -371,7 +371,7 @@ function ctmTileFor(neighbors, method = 'full', opts = {}) {
 
 Big-budget sci-fi set pieces at a pixel-texture budget (renders: `docs/ships/`, rebuilt by `node docs/ships/build-demos.mjs`). Designs from the templates and generators are original and seeded.
 
-- **Walkable hero ship.** `create {template:"gunship"}` builds an original 25 m VTOL gunship (maker ORVANE, class TERN) at true scale (32 px = 1 m) with a walkable interior in the same model: a corridor with chamfered portal arches, grating and blue edge strips, a weapon rack, personal storage and a component bay, a round airlock with a boarding ladder, a hold and a cockpit behind multi-pane glazing. Renders: `docs/ships/hero_*.png`, rebuilt by `node docs/ships/build-hero.mjs`.
+- **Walkable hero ship.** `create {template:"gunship"}` builds an original 25 m VTOL gunship (maker ORVANE, class TERN) at true scale (32 px = 1 m) with a walkable interior in the same model. The exterior is a faceted, chined fuselage wedge with a dorsal spine, side sponsons, a heavy chin, separate bevelled armour slabs, armoured wing pylons and faceted VTOL nacelles. Inside: a corridor with chamfered portal arches, grating and blue edge strips, a weapon rack, personal storage and a component bay, a round airlock with a boarding ladder, a hold and a cockpit behind multi-pane glazing. Renders: `docs/ships/hero_*.png`, rebuilt by `node docs/ships/build-hero.mjs`.
 - **Player metrics and `walk_check`.** One shared set of metrics (1.8 m capsule, doors at least 1.2 x 2.1 m, corridors at least 1.4 x 2.3 m, stairs at most 0.2 m per step and 38 deg, slopes 35 deg, ramps 20 deg, hull at least 0.15 m thick) drives the kit and `art_model walk_check {name}`, which reports blocked doors, headroom (including seated head clearance), unreachable areas, floor gaps, interior parts poking through the hull and metric violations. `export {walk:true}` adds a navmesh node, box colliders per room, door / ladder / lift trigger volumes, seats and spawn points.
 - **Walkable hull capabilities.** `hull {shell, openings}` gives the hull a real wall with cut openings and visible rims; `glazing` sets mullioned glass into an opening; `ring_door` is a round airlock door; `portal_arch`, `locker_wall`, `screen_arm`, `pilot_seat`, `terminal`, `stair_run` and clutter pieces furnish interiors; `decal` adds stencils, serials, labels, arrows and chevrons; `figure` is a 1.8 m scale silhouette.
 - **Kit textures by default.** `kit_<name>` and tinted `kit_<name>_<rrggbb>` references resolve to built-in painted pixel textures (with normal maps and metal/rough) when there is no canvas of that name, so kit pieces, templates and generators are textured out of the box. `preview {mood:true, ao:true}` lights them per pixel with the model's own lights plus key, fill and rim light.

diff --git a/CHANGELOG.md b/CHANGELOG.md
@@ -8,7 +8,8 @@
 - `hull` gains `shell` (inner skin) and `openings` (cut through both skins, rims show the thickness) and `patch` + `inset` (used by `glazing`).
 - New assemblies: `glazing`, `ring_door`, `portal_arch`, `locker_wall`, `screen_arm`, `pilot_seat`, `terminal`, `stair_run`, `gun_pod`, `fairing`, `hinge`, `crate`, `barrel`, `stool`, `chair`, `figure`; new `decal` part. Engines get exhaust petals and straps; intakes get depth; armour plates step; landing gear shows torque links and braces.
 - Built-in kit textures (`kit_<name>[_<rrggbb>]`) with normal and metal/rough data; kit pieces and templates use them by default.
-- Mood previews light every surface per pixel (normal maps, specular, AO, point lights, key / fill / rim); `preview {ao}` works with poses.
+- Mood previews light every surface per pixel (normal maps, specular, AO, point lights, key / fill / rim) and take `mood.sky` (sky / ground gradient); `preview {ao}` works with poses.
+- Hero exterior pass: the gunship hull is a faceted, chined loft (flat upper deck stepping down to a wrap canopy and a blunt armoured nose), with a dorsal spine, side sponsons, a heavy chin block, separate bevelled armour slabs (`kit_slab`: worn edges), thick armoured wing pylons over truss keels, and faceted nacelles with intake lips and exhaust bells; two-tone paint and a dark underbelly.
 - Class budgets now cover exterior + walkable interior (fighter 14k, dropship 45k, freighter 80k, corvette 120k, capital 200k).
 - `hull` part: lofted from a plan curve, a side profile and cross-section stations. It has hard creases, chamfered polygon sections, panel-line grooves, raised plates, mask carving and `uv:"fit"` livery mapping, and the surface stays closed.
 - `on_hull` places a part on a hull surface. Assemblies expand one part into several, each with sockets, poses and clips.
